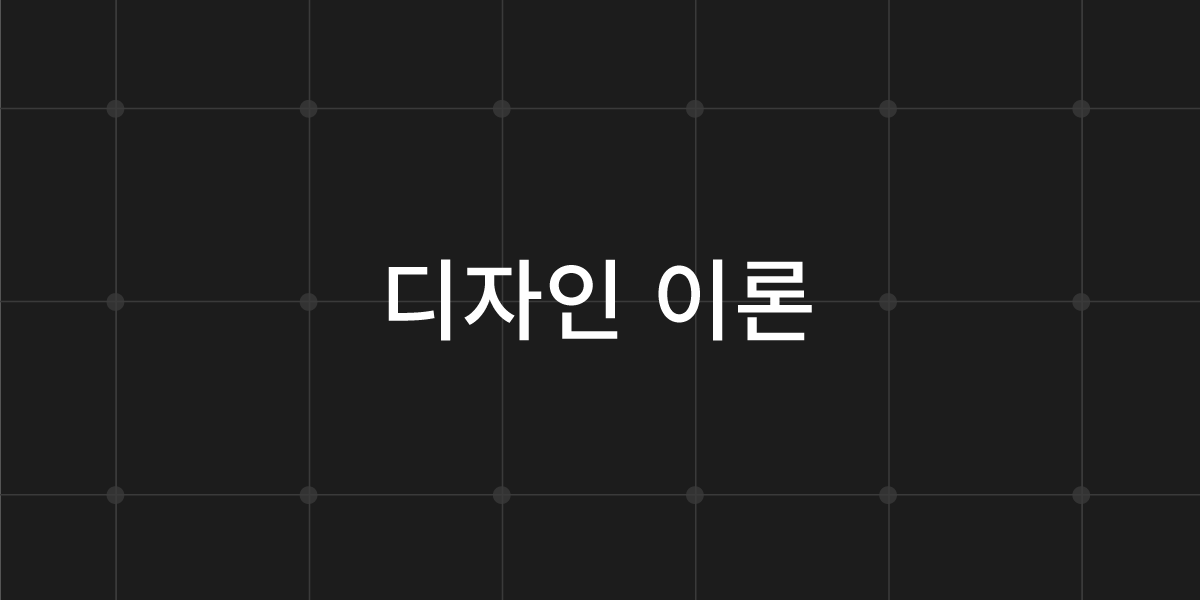
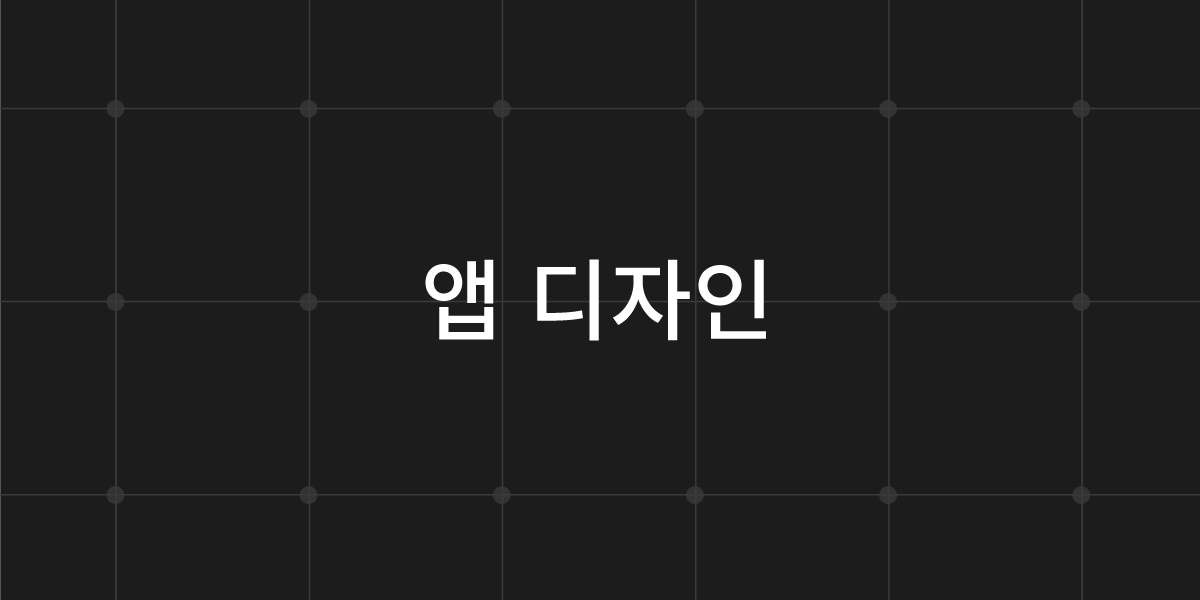
css 및 명칭 변경

Changed region(s): [[0.3083, 0.42, 0.6783, 0.57]]

diff --git a/submenu-theory.html b/submenu-theory.html
@@ -7,19 +7,22 @@
 
 
 <div class="menu-sub">
-    <div class="menu-sub-dropdown">디자인 이론<img style="  opacity:1;    float: right;     padding-right: 14px;     width: 12px;     padding-top: 2px;" src="./img/icon/icon-dropdown.svg"> </div>
+    <div class="menu-sub-dropdown">앱 디자인<img style="  opacity:1;    float: right;     padding-right: 14px;     width: 12px;     padding-top: 2px;" src="./img/icon/icon-dropdown.svg"> </div>
     <ul class="dropdown-sub">
         <li><a href="design-theory.html">시작하기</a></li>
         <li><a href="atomic-design.html">디자인 요소</a></li>
         <li><a href="color.html">색</a></li>
         <li><a href="typography.html">서체</a></li>
         <li><a href="icon.html">아이콘</a></li>
+        <li><a href="component.html">컴포넌트</a></li>
+        <li><a href="component.html">레이아웃</a></li>
+        <li><a href="component.html">페이지</a></li>
     </ul>
        
 </div>
 <div class="mobile-menu-sub">
     <div class="mobile-menu-sub-dropdown">
-디자인 이론
+앱 디자인
         <img style="  opacity:1;    float: right;     padding-right: 14px;     width: 12px;     padding-top: 2px;" src="./img/icon/icon-dropdown.svg"></div>
     <ul class="mobile-dropdown-sub">
         <li><a href="design-theory.html">시작하기</a></li>
@@ -27,5 +30,8 @@
         <li><a href="color.html">색</a></li>
         <li><a href="typography.html">서체</a></li>
         <li><a href="icon.html">아이콘</a></li>
+        <li><a href="component.html">컴포넌트</a></li>
+        <li><a href="component.html">레이아웃</a></li>
+        <li><a href="component.html">페이지</a></li>
     </ul>
 </div>

diff --git a/css/style.css b/css/style.css
@@ -2,7 +2,11 @@
 
 /* layout */
 
-.active>a {
+.current>a{
+  font-weight:bold;
+  background:#ff0;
+}
+.active > a {
     background: #2b90f5;
     color: yellow;
 }
@@ -54,7 +58,7 @@ body {
     width: 200px;
     height: 100%;
     background-color: #ffffff;
-    box-shadow:inset -4px 0px 40px #f7f7f7;
+    box-shadow: inset -4px 0px 40px #f1f1f3;
     z-index: 999;
     text-align: center;
 }
@@ -110,15 +114,8 @@ body {
 .menu-sub li a {
     color: #232323;
     font-weight: 500;
-    font-size: 18px;
+    font-size: 17px;
 }
-
-.menu-sub li a:active {
-    color: #232323;
-    font-weight: 600;
-    font-size: 18px;
-}
-
 
 
 .container {
@@ -137,7 +134,7 @@ body {
 .wrapper {
     float: left;
     width: 100%;
-    max-width:1600px;
+    max-width: 1600px;
 }
 
 .col {
@@ -149,12 +146,12 @@ body {
     margin: 8px 8px 8px 16px;
     background-color: white;
     border-radius: 8px;
-    box-shadow: 0px 4px 20px #efefef;
+    box-shadow: 0px 4px 20px #f1f1f3;
 }
 
 .col:hover {
     color: white;
-    box-shadow: 0px 10px 30px #cecece;
+    box-shadow: 0px 10px 30px #e9e9ea;
     transition: ease 0.5s;
     transform: translateY(-10px)
 }
@@ -487,7 +484,7 @@ h2 {
         height: 56px;
         text-align: left;
         border-bottom: 1px solid #ececec;
-        box-shadow:none;
+        box-shadow: none;
     }
 
     .wrapper {

diff --git a/nav.html b/nav.html
@@ -23,7 +23,7 @@
             <img style="width:16px;padding-right:12px;margin-bottom:-2px;" src="./img/icon/icon_home.svg">홈</div></div>
     </div>
     <div class="nav-btn" onclick="location.href='design-theory.html';">
-        <div class="nav-btn-sub"><img style="width:16px;padding-right:12px;margin-bottom:-2px;" src="./img/icon/icon_theory.svg">디자인 이론</div>
+        <div class="nav-btn-sub"><img style="width:16px;padding-right:12px;margin-bottom:-2px;" src="./img/icon/icon_theory.svg">앱 디자인</div>
     </div>
     <div class="nav-btn" onclick="location.href='sketch-tutorial.html';">
         <div class="nav-btn-sub"><img style="width:16px;padding-right:12px;margin-bottom:-2px;" src="./img/icon/icon_guide.svg">스케치 가이드</div>
@@ -37,7 +37,7 @@
         <a class="dropdown-link"><img style="padding-top:16px;width:24px;"src="./img/icon/icon-menu.svg"></a>
         <ul class="mobile-dropdown">
             <li><a href="index.html">홈</a></li>
-            <li><a href="design-theory.html">디자인 이론</a></li>
+            <li><a href="design-theory.html">앱 디자인</a></li>
             <li><a href="sketch-tutorial.html">스케치 가이드</a></li>
             <li><a href="article.html">아카이브</a></li>
         </ul>

diff --git a/design-theory.html b/design-theory.html
@@ -52,7 +52,7 @@
     <div id="nav"></div>
     <div id="submenu-theory"></div>
     <div class="article-container">
-         <div class="animate" data-animate="fadeInRight" data-duration="2.0s" data-delay="0.3s">
+         <div class="animate" data-animate="fadeIn" data-duration="2.0s" data-delay="0.3s">
         <div class="article-title">
             시작하기</div>
         <div class="article-h1">
@@ -62,7 +62,7 @@
         <img class="article-img" src="./img/design-system/main_thumnail.png">
 </div>
 
-         <div class="animate" data-animate="fadeInRight" data-duration="2.0s" data-delay="1s">
+         <div class="animate" data-animate="fadeIn" data-duration="2.0s" data-delay="1s">
         <div class="article-title">
             폴더 관리</div>
         <div class="article-h1">

diff --git a/css/main.css b/css/main.css
@@ -32,7 +32,7 @@
     padding: 14px;
     margin: 12px -2px 12px 18px;
     background: #FFFFFF;
-    box-shadow: 0px 4px 40px #efefef;
+    box-shadow: 0px 4px 40px #f1f1f3;
     border-radius: 8px;
     text-align: center;
     transition: ease 0.5s;
@@ -41,9 +41,9 @@
 
 .service-box:hover {
     color: white;
-    box-shadow: 0px 10px 40px #dad8d5;
+    box-shadow: 0px 10px 40px #e9e9ea;
     transition: ease 0.5s;
-    transform: translateY(-5px)
+    transform: translateY(-10px)
 }
 
 
@@ -76,7 +76,7 @@
     position: fixed;
     right: 0px;
     bottom: 0px;
-    width:240px;
+    width: 240px;
 }
 
 
@@ -91,9 +91,9 @@
         padding: 0px;
     }
 
-.bg-illust {
-   display:none;
-}
+    .bg-illust {
+        display: none;
+    }
 
 
 }

diff --git a/index.html b/index.html
@@ -81,6 +81,12 @@
                     <div class="service-desc">버전 관리</div>
                 </div>
 
+                 <div class="service-box" onclick="location.href='http://www.adobe.com/kr/products/photoshop.html';">
+                    <img class="icon-logo" src="./img/icon/logo-photoshop.svg">
+                    <div class="service-name">Photoshop</div>
+                    <div class="service-desc">그래픽 디자인</div>
+                </div>
+                
                 <div class="service-box" onclick="location.href='https://www.sketchapp.com/';">
                     <img class="icon-logo" src="./img/icon/logo-sketch.svg">
                     <div class="service-name">Sketch</div>
